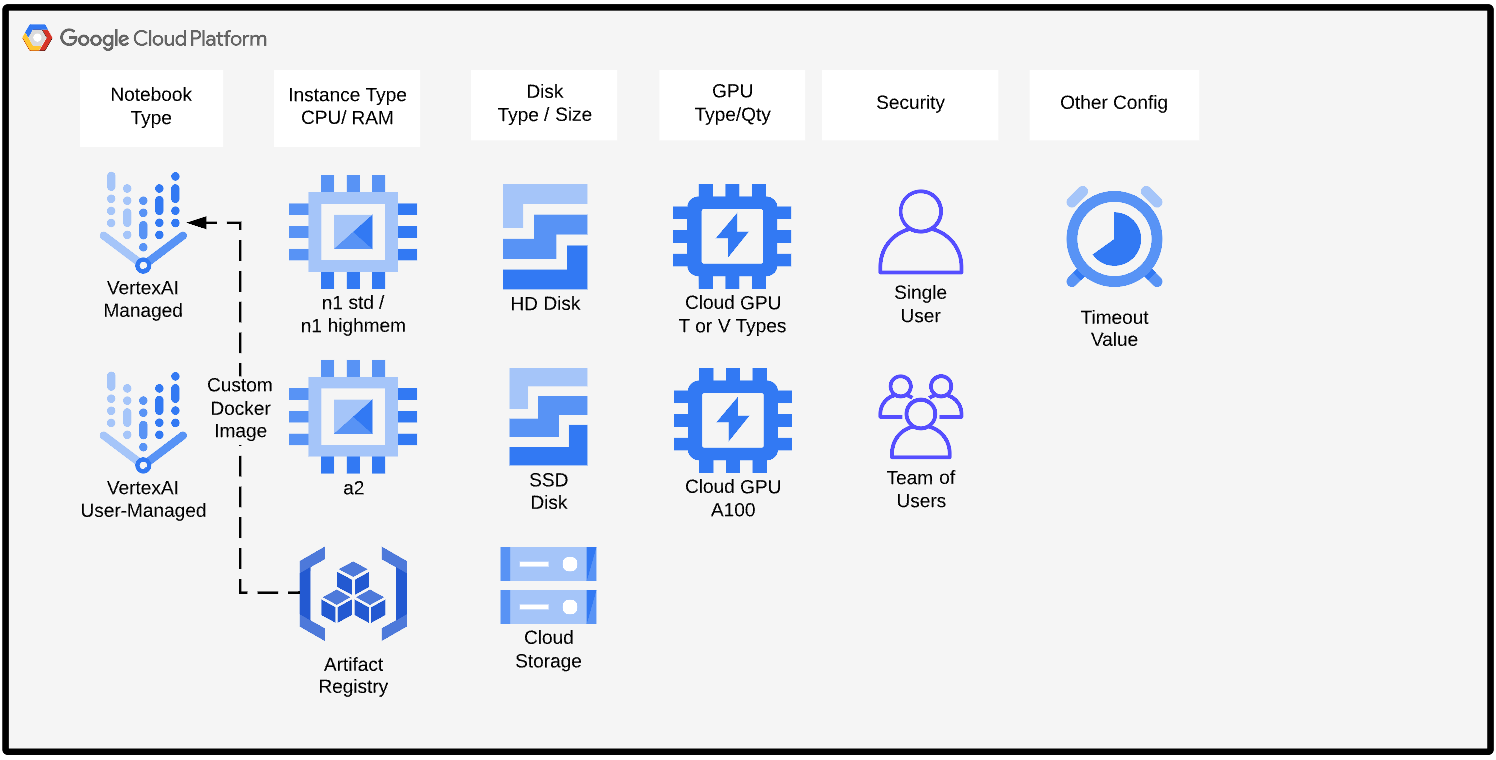
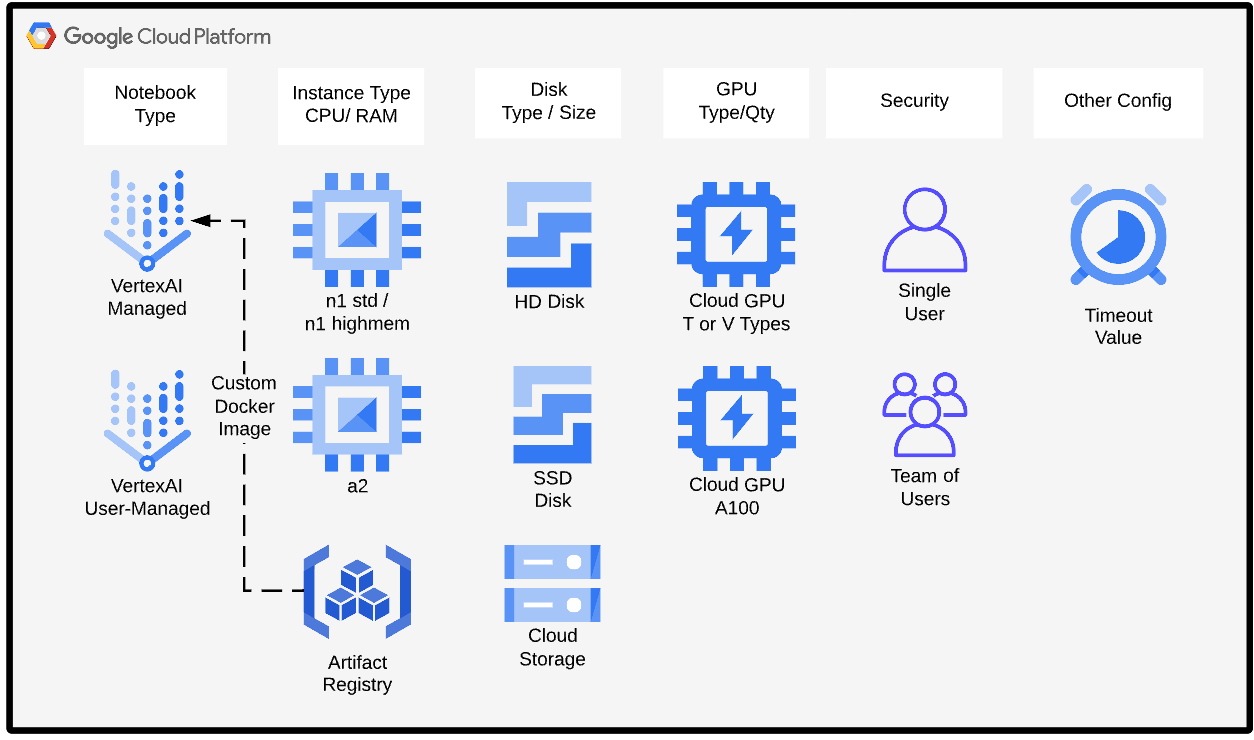
added configs graphic

diff --git a/notebook-picker/templates/index.html b/notebook-picker/templates/index.html
@@ -7,6 +7,8 @@
 </head>
 <body>
     <h1>GCP Managed Notebooks Configs</h1>
+    <img src="/static/configs.png" alt="Vertex AI Managed Notebook Configs" width="800">
+    <br><br>
     There are a number of key configuration options for GCP Vertex AI Managed Notebooks.  They include the following:
     <ul>
         <li><i class="material-icons">computer</i>
